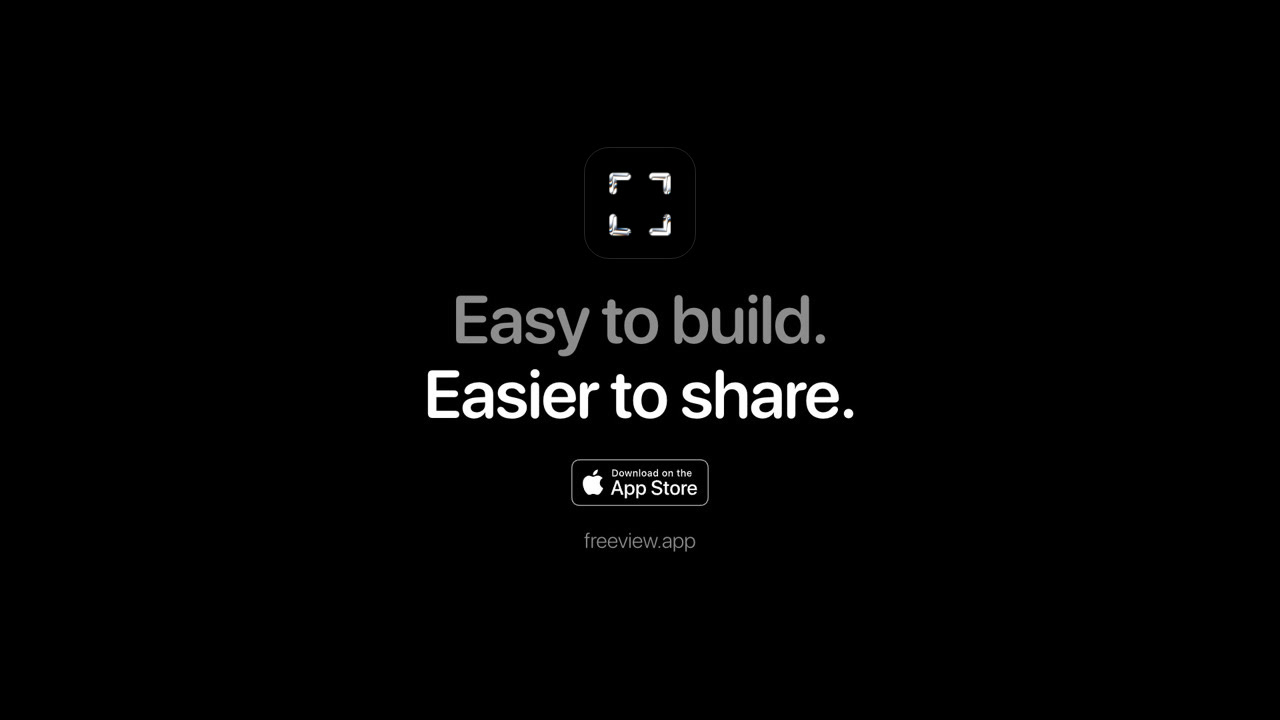
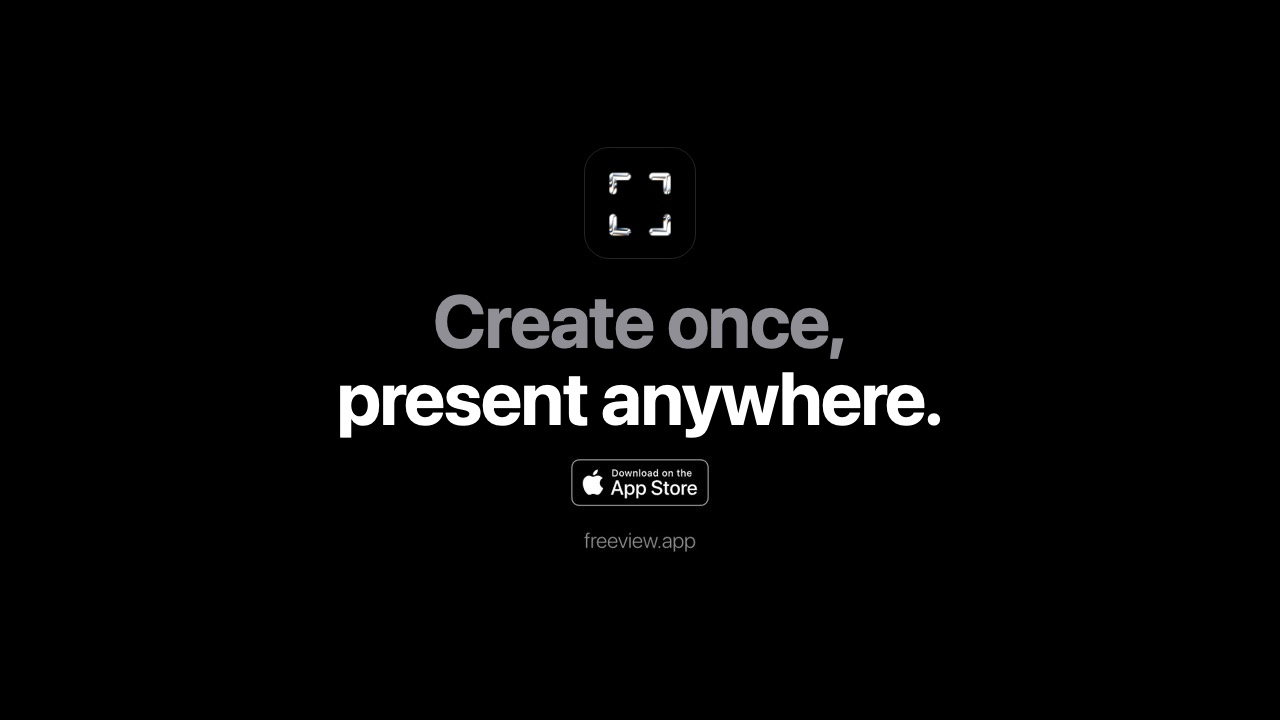
Social image: 'Create once, present anywhere' (was 'Easy to build. Easier to share.'), og.jpg?v=2 so link previews fetch it again

Changed region(s): [[0.25, 0.5194, 0.75, 0.6111], [0.3125, 0.3972, 0.6562, 0.4889]]

diff --git a/fr/index.html b/fr/index.html
@@ -19,14 +19,14 @@
 <meta property="og:description" content="Créez une fois, présentez partout : transformez Keynote, PDF, vidéos, photos, 3D et plus encore en une seule présentation sur iPhone, iPad et Mac, et envoyez un lien qui s’ouvre sur tous les écrans, quelle que soit sa taille.">
 <meta property="og:url" content="https://freeview.app/fr/">
 <meta property="og:locale" content="fr_FR">
-<meta property="og:image" content="https://freeview.app/og.jpg">
+<meta property="og:image" content="https://freeview.app/og.jpg?v=2">
 <meta property="og:image:width" content="1280">
 <meta property="og:image:height" content="720">
 <meta property="og:image:alt" content="Une présentation FreeView qui s’ouvre sur un ordinateur portable, une tablette, un téléphone et une TV à partir d’un seul lien.">
 <meta name="twitter:card" content="summary_large_image">
 <meta name="twitter:title" content="FreeView — Créez une fois, présentez partout">
 <meta name="twitter:description" content="Créez une fois, présentez partout : transformez Keynote, PDF, vidéos, photos, 3D et plus encore en une seule présentation sur iPhone, iPad et Mac, et envoyez un lien qui s’ouvre sur tous les écrans, quelle que soit sa taille.">
-<meta name="twitter:image" content="https://freeview.app/og.jpg">
+<meta name="twitter:image" content="https://freeview.app/og.jpg?v=2">
 <link rel="icon" type="image/png" href="/logo.png">
 <link rel="apple-touch-icon" href="/logo.png">
 <style>

diff --git a/pt-br/index.html b/pt-br/index.html
@@ -19,14 +19,14 @@
 <meta property="og:description" content="Crie uma vez, apresente em qualquer lugar: transforme arquivos do Keynote, PDFs, vídeos, fotos, modelos 3D e muito mais em uma apresentação no iPhone, iPad e Mac, e envie um link que abre em qualquer tela, seja qual for o tamanho.">
 <meta property="og:url" content="https://freeview.app/pt-br/">
 <meta property="og:locale" content="pt_BR">
-<meta property="og:image" content="https://freeview.app/og.jpg">
+<meta property="og:image" content="https://freeview.app/og.jpg?v=2">
 <meta property="og:image:width" content="1280">
 <meta property="og:image:height" content="720">
 <meta property="og:image:alt" content="Uma apresentação do FreeView abrindo em um notebook, um tablet, um celular e uma TV a partir de um único link.">
 <meta name="twitter:card" content="summary_large_image">
 <meta name="twitter:title" content="FreeView — Crie uma vez, apresente em qualquer lugar">
 <meta name="twitter:description" content="Crie uma vez, apresente em qualquer lugar: transforme arquivos do Keynote, PDFs, vídeos, fotos, modelos 3D e muito mais em uma apresentação no iPhone, iPad e Mac, e envie um link que abre em qualquer tela, seja qual for o tamanho.">
-<meta name="twitter:image" content="https://freeview.app/og.jpg">
+<meta name="twitter:image" content="https://freeview.app/og.jpg?v=2">
 <link rel="icon" type="image/png" href="/logo.png">
 <link rel="apple-touch-icon" href="/logo.png">
 <style>

diff --git a/es/index.html b/es/index.html
@@ -19,14 +19,14 @@
 <meta property="og:description" content="Crea una vez, presenta donde quieras: convierte archivos de Keynote, PDF, videos, fotos, modelos 3D y más en una presentación en iPhone, iPad y Mac, y envía un enlace que se abre en cualquier pantalla, sea cual sea el tamaño.">
 <meta property="og:url" content="https://freeview.app/es/">
 <meta property="og:locale" content="es_ES">
-<meta property="og:image" content="https://freeview.app/og.jpg">
+<meta property="og:image" content="https://freeview.app/og.jpg?v=2">
 <meta property="og:image:width" content="1280">
 <meta property="og:image:height" content="720">
 <meta property="og:image:alt" content="Una presentación de FreeView que se abre en un portátil, una tableta, un teléfono y una TV desde un solo enlace.">
 <meta name="twitter:card" content="summary_large_image">
 <meta name="twitter:title" content="FreeView — Crea una vez, presenta donde quieras">
 <meta name="twitter:description" content="Crea una vez, presenta donde quieras: convierte archivos de Keynote, PDF, videos, fotos, modelos 3D y más en una presentación en iPhone, iPad y Mac, y envía un enlace que se abre en cualquier pantalla, sea cual sea el tamaño.">
-<meta name="twitter:image" content="https://freeview.app/og.jpg">
+<meta name="twitter:image" content="https://freeview.app/og.jpg?v=2">
 <link rel="icon" type="image/png" href="/logo.png">
 <link rel="apple-touch-icon" href="/logo.png">
 <style>

diff --git a/it/index.html b/it/index.html
@@ -19,14 +19,14 @@
 <meta property="og:description" content="Crea una volta, presenta ovunque: trasforma file Keynote, PDF, video, foto, modelli 3D e altro in una presentazione su iPhone, iPad e Mac, e invia un link che si apre su qualsiasi schermo, qualunque sia la dimensione.">
 <meta property="og:url" content="https://freeview.app/it/">
 <meta property="og:locale" content="it_IT">
-<meta property="og:image" content="https://freeview.app/og.jpg">
+<meta property="og:image" content="https://freeview.app/og.jpg?v=2">
 <meta property="og:image:width" content="1280">
 <meta property="og:image:height" content="720">
 <meta property="og:image:alt" content="Una presentazione FreeView che si apre su un portatile, un tablet, un telefono e una TV da un unico link.">
 <meta name="twitter:card" content="summary_large_image">
 <meta name="twitter:title" content="FreeView — Crea una volta, presenta ovunque">
 <meta name="twitter:description" content="Crea una volta, presenta ovunque: trasforma file Keynote, PDF, video, foto, modelli 3D e altro in una presentazione su iPhone, iPad e Mac, e invia un link che si apre su qualsiasi schermo, qualunque sia la dimensione.">
-<meta name="twitter:image" content="https://freeview.app/og.jpg">
+<meta name="twitter:image" content="https://freeview.app/og.jpg?v=2">
 <link rel="icon" type="image/png" href="/logo.png">
 <link rel="apple-touch-icon" href="/logo.png">
 <style>

diff --git a/index.html b/index.html
@@ -18,14 +18,14 @@
 <meta property="og:title" content="FreeView — Create once, present anywhere">
 <meta property="og:description" content="Create once, present anywhere: turn Keynote, PDFs, videos, photos, 3D and more into one presentation on iPhone, iPad and Mac, and send one link that plays on any screen, whatever the size.">
 <meta property="og:url" content="https://freeview.app/">
-<meta property="og:image" content="https://freeview.app/og.jpg">
+<meta property="og:image" content="https://freeview.app/og.jpg?v=2">
 <meta property="og:image:width" content="1280">
 <meta property="og:image:height" content="720">
 <meta property="og:image:alt" content="One FreeView presentation opening on a laptop, tablet, phone and TV from a single link.">
 <meta name="twitter:card" content="summary_large_image">
 <meta name="twitter:title" content="FreeView — Create once, present anywhere">
 <meta name="twitter:description" content="Create once, present anywhere: turn Keynote, PDFs, videos, photos, 3D and more into one presentation on iPhone, iPad and Mac, and send one link that plays on any screen, whatever the size.">
-<meta name="twitter:image" content="https://freeview.app/og.jpg">
+<meta name="twitter:image" content="https://freeview.app/og.jpg?v=2">
 <link rel="icon" type="image/png" href="/logo.png">
 <link rel="apple-touch-icon" href="/logo.png">
 <script>

diff --git a/fr/privacy.html b/fr/privacy.html
@@ -19,14 +19,14 @@
 <meta property="og:description" content="Comment FreeView traite vos données : sur vos appareils et dans votre propre iCloud, sauf les présentations que vous partagez.">
 <meta property="og:url" content="https://freeview.app/fr/privacy.html">
 <meta property="og:locale" content="fr_FR">
-<meta property="og:image" content="https://freeview.app/og.jpg">
+<meta property="og:image" content="https://freeview.app/og.jpg?v=2">
 <meta property="og:image:width" content="1280">
 <meta property="og:image:height" content="720">
 <meta property="og:image:alt" content="Une présentation FreeView qui s’ouvre sur un ordinateur portable, une tablette, un téléphone et une TV à partir d’un seul lien.">
 <meta name="twitter:card" content="summary_large_image">
 <meta name="twitter:title" content="FreeView — Politique de confidentialité">
 <meta name="twitter:description" content="Comment FreeView traite vos données : sur vos appareils et dans votre propre iCloud, sauf les présentations que vous partagez.">
-<meta name="twitter:image" content="https://freeview.app/og.jpg">
+<meta name="twitter:image" content="https://freeview.app/og.jpg?v=2">
 <link rel="icon" type="image/png" href="/logo.png">
 <link rel="apple-touch-icon" href="/logo.png">
 <style>

diff --git a/pt-br/privacy.html b/pt-br/privacy.html
@@ -19,14 +19,14 @@
 <meta property="og:description" content="Como o FreeView trata os seus dados: nos seus dispositivos e no seu próprio iCloud, exceto as apresentações que você compartilha.">
 <meta property="og:url" content="https://freeview.app/pt-br/privacy.html">
 <meta property="og:locale" content="pt_BR">
-<meta property="og:image" content="https://freeview.app/og.jpg">
+<meta property="og:image" content="https://freeview.app/og.jpg?v=2">
 <meta property="og:image:width" content="1280">
 <meta property="og:image:height" content="720">
 <meta property="og:image:alt" content="Uma apresentação do FreeView abrindo em um notebook, um tablet, um celular e uma TV a partir de um único link.">
 <meta name="twitter:card" content="summary_large_image">
 <meta name="twitter:title" content="FreeView — Política de Privacidade">
 <meta name="twitter:description" content="Como o FreeView trata os seus dados: nos seus dispositivos e no seu próprio iCloud, exceto as apresentações que você compartilha.">
-<meta name="twitter:image" content="https://freeview.app/og.jpg">
+<meta name="twitter:image" content="https://freeview.app/og.jpg?v=2">
 <link rel="icon" type="image/png" href="/logo.png">
 <link rel="apple-touch-icon" href="/logo.png">
 <style>

diff --git a/es/privacy.html b/es/privacy.html
@@ -19,14 +19,14 @@
 <meta property="og:description" content="Cómo trata FreeView tus datos: en tus dispositivos y en tu propio iCloud, salvo las presentaciones que compartes.">
 <meta property="og:url" content="https://freeview.app/es/privacy.html">
 <meta property="og:locale" content="es_ES">
-<meta property="og:image" content="https://freeview.app/og.jpg">
+<meta property="og:image" content="https://freeview.app/og.jpg?v=2">
 <meta property="og:image:width" content="1280">
 <meta property="og:image:height" content="720">
 <meta property="og:image:alt" content="Una presentación de FreeView que se abre en un portátil, una tableta, un teléfono y una TV desde un solo enlace.">
 <meta name="twitter:card" content="summary_large_image">
 <meta name="twitter:title" content="FreeView — Política de privacidad">
 <meta name="twitter:description" content="Cómo trata FreeView tus datos: en tus dispositivos y en tu propio iCloud, salvo las presentaciones que compartes.">
-<meta name="twitter:image" content="https://freeview.app/og.jpg">
+<meta name="twitter:image" content="https://freeview.app/og.jpg?v=2">
 <link rel="icon" type="image/png" href="/logo.png">
 <link rel="apple-touch-icon" href="/logo.png">
 <style>

diff --git a/it/privacy.html b/it/privacy.html
@@ -19,14 +19,14 @@
 <meta property="og:description" content="Come FreeView tratta i tuoi dati: sui tuoi dispositivi e nel tuo iCloud, tranne le presentazioni che condividi.">
 <meta property="og:url" content="https://freeview.app/it/privacy.html">
 <meta property="og:locale" content="it_IT">
-<meta property="og:image" content="https://freeview.app/og.jpg">
+<meta property="og:image" content="https://freeview.app/og.jpg?v=2">
 <meta property="og:image:width" content="1280">
 <meta property="og:image:height" content="720">
 <meta property="og:image:alt" content="Una presentazione FreeView che si apre su un portatile, un tablet, un telefono e una TV da un unico link.">
 <meta name="twitter:card" content="summary_large_image">
 <meta name="twitter:title" content="FreeView — Informativa sulla privacy">
 <meta name="twitter:description" content="Come FreeView tratta i tuoi dati: sui tuoi dispositivi e nel tuo iCloud, tranne le presentazioni che condividi.">
-<meta name="twitter:image" content="https://freeview.app/og.jpg">
+<meta name="twitter:image" content="https://freeview.app/og.jpg?v=2">
 <link rel="icon" type="image/png" href="/logo.png">
 <link rel="apple-touch-icon" href="/logo.png">
 <style>

diff --git a/fr/support.html b/fr/support.html
@@ -19,14 +19,14 @@
 <meta property="og:description" content="Aide pour FreeView : ouvrir des fichiers, présentations, mode kiosque, mode nuit et FreeView Pro.">
 <meta property="og:url" content="https://freeview.app/fr/support.html">
 <meta property="og:locale" content="fr_FR">
-<meta property="og:image" content="https://freeview.app/og.jpg">
+<meta property="og:image" content="https://freeview.app/og.jpg?v=2">
 <meta property="og:image:width" content="1280">
 <meta property="og:image:height" content="720">
 <meta property="og:image:alt" content="Une présentation FreeView qui s’ouvre sur un ordinateur portable, une tablette, un téléphone et une TV à partir d’un seul lien.">
 <meta name="twitter:card" content="summary_large_image">
 <meta name="twitter:title" content="FreeView — Assistance">
 <meta name="twitter:description" content="Aide pour FreeView : ouvrir des fichiers, présentations, mode kiosque, mode nuit et FreeView Pro.">
-<meta name="twitter:image" content="https://freeview.app/og.jpg">
+<meta name="twitter:image" content="https://freeview.app/og.jpg?v=2">
 <link rel="icon" type="image/png" href="/logo.png">
 <link rel="apple-touch-icon" href="/logo.png">
 <style>

diff --git a/privacy.html b/privacy.html
@@ -18,14 +18,14 @@
 <meta property="og:title" content="FreeView — Privacy Policy">
 <meta property="og:description" content="How FreeView handles your data: on your devices and in your own iCloud, except presentations you share.">
 <meta property="og:url" content="https://freeview.app/privacy.html">
-<meta property="og:image" content="https://freeview.app/og.jpg">
+<meta property="og:image" content="https://freeview.app/og.jpg?v=2">
 <meta property="og:image:width" content="1280">
 <meta property="og:image:height" content="720">
 <meta property="og:image:alt" content="One FreeView presentation opening on a laptop, tablet, phone and TV from a single link.">
 <meta name="twitter:card" content="summary_large_image">
 <meta name="twitter:title" content="FreeView — Privacy Policy">
 <meta name="twitter:description" content="How FreeView handles your data: on your devices and in your own iCloud, except presentations you share.">
-<meta name="twitter:image" content="https://freeview.app/og.jpg">
+<meta name="twitter:image" content="https://freeview.app/og.jpg?v=2">
 <link rel="icon" type="image/png" href="/logo.png">
 <link rel="apple-touch-icon" href="/logo.png">
 <style>

diff --git a/pt-br/support.html b/pt-br/support.html
@@ -19,14 +19,14 @@
 <meta property="og:description" content="Ajuda com o FreeView: abrir arquivos, apresentações, modo quiosque, modo noturno e FreeView Pro.">
 <meta property="og:url" content="https://freeview.app/pt-br/support.html">
 <meta property="og:locale" content="pt_BR">
-<meta property="og:image" content="https://freeview.app/og.jpg">
+<meta property="og:image" content="https://freeview.app/og.jpg?v=2">
 <meta property="og:image:width" content="1280">
 <meta property="og:image:height" content="720">
 <meta property="og:image:alt" content="Uma apresentação do FreeView abrindo em um notebook, um tablet, um celular e uma TV a partir de um único link.">
 <meta name="twitter:card" content="summary_large_image">
 <meta name="twitter:title" content="FreeView — Suporte">
 <meta name="twitter:description" content="Ajuda com o FreeView: abrir arquivos, apresentações, modo quiosque, modo noturno e FreeView Pro.">
-<meta name="twitter:image" content="https://freeview.app/og.jpg">
+<meta name="twitter:image" content="https://freeview.app/og.jpg?v=2">
 <link rel="icon" type="image/png" href="/logo.png">
 <link rel="apple-touch-icon" href="/logo.png">
 <style>
